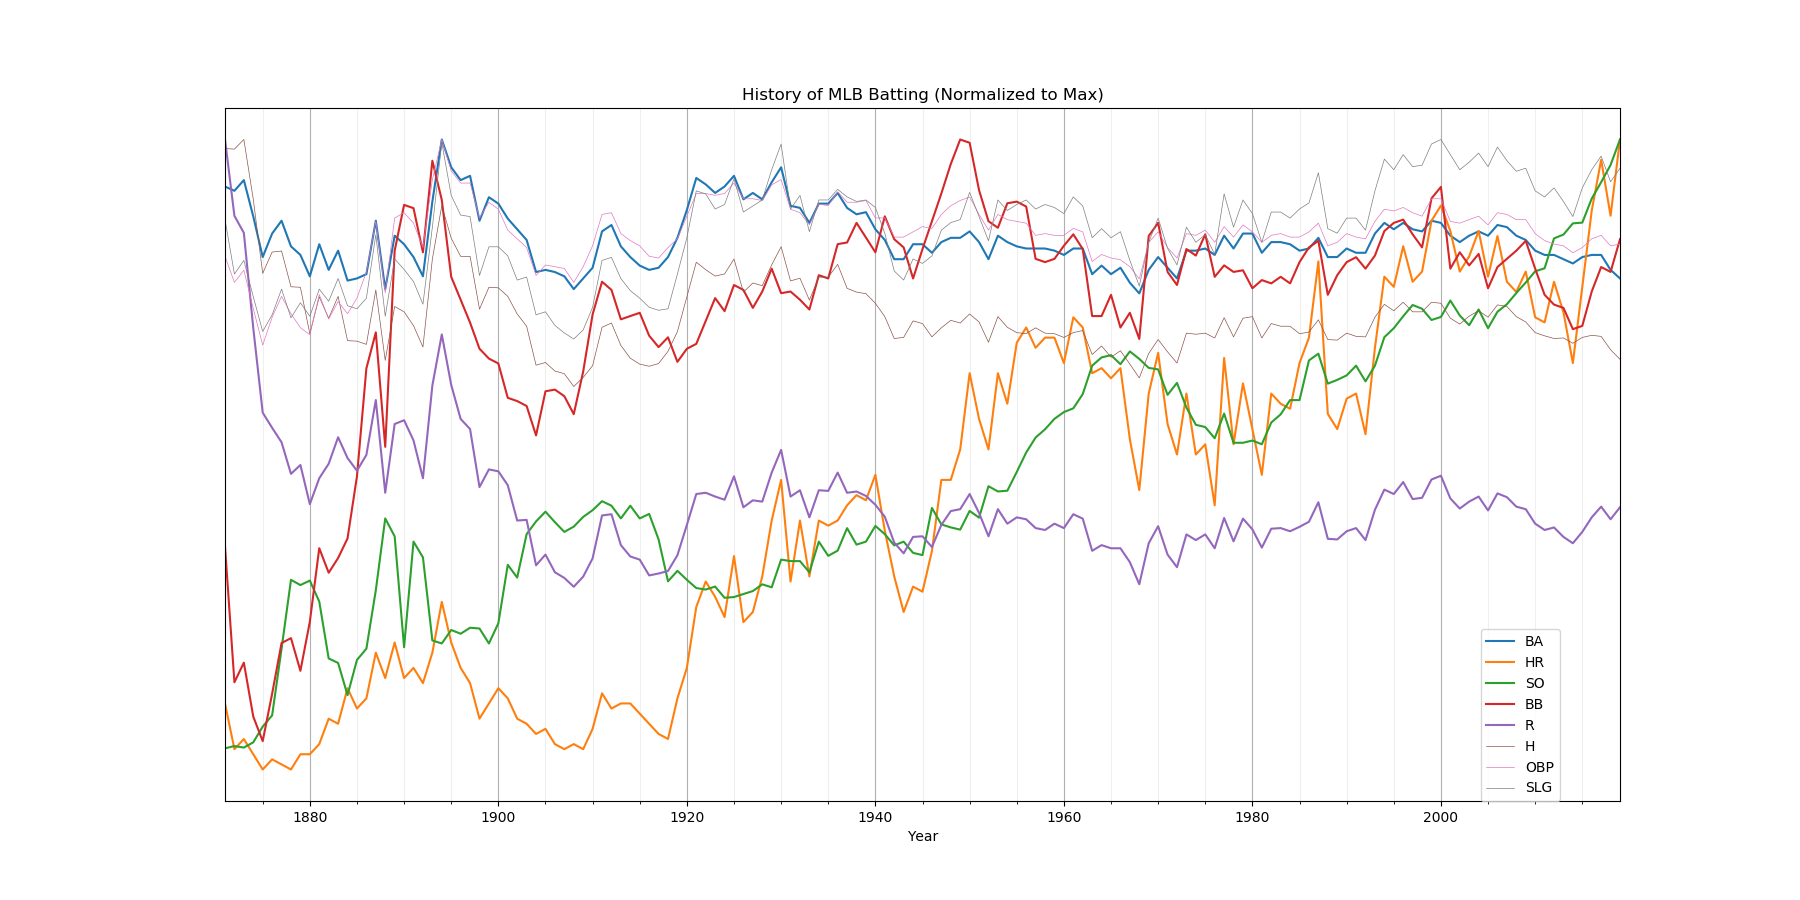
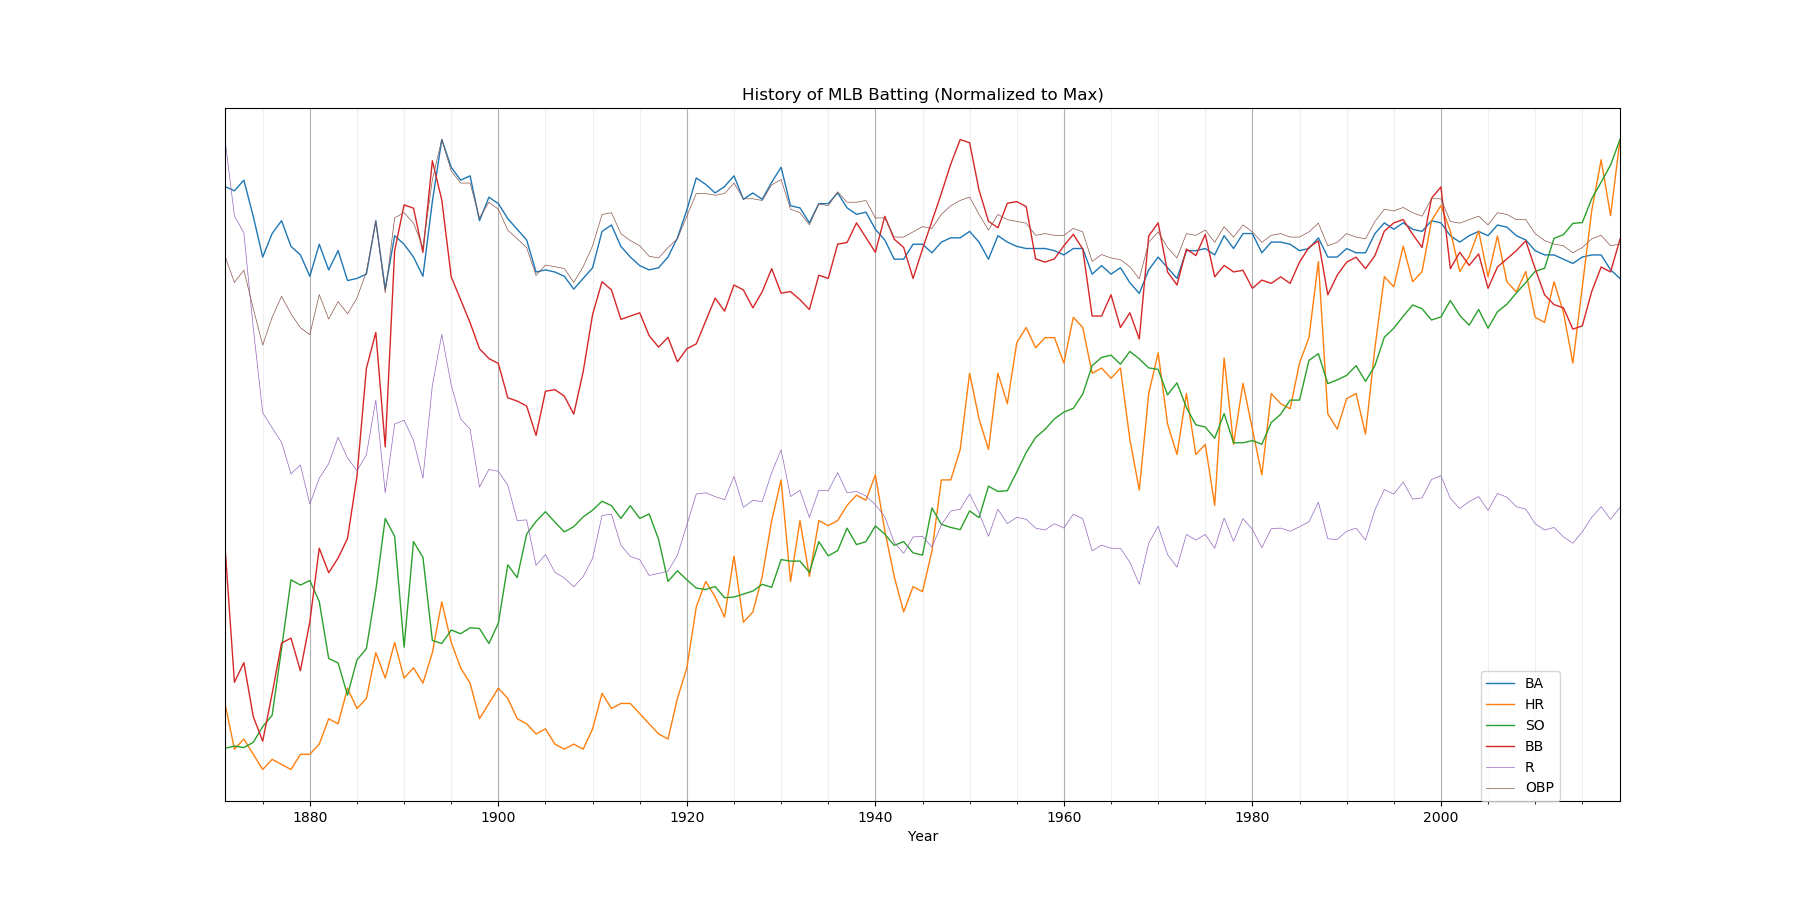
streamlined the creation of the plots into a for loop.

diff --git a/MLB_stats.py b/MLB_stats.py
@@ -4,22 +4,20 @@ import matplotlib.pyplot as plt
 from matplotlib.font_manager import FontProperties
 import mplcursors as mpl
 
+import pdb
+
 
 # Plots
 #---------------------------------------------------------
 # Plot1
 data = pd.read_csv('MLB_Team_Batting.csv')   # Read csv into dataframe
-#data.Year = pd.to_datetime(data.Year, format='%Y')  # Convert year into datetime
 
 fig1, ax1 = plt.subplots(figsize=(18,9))
-ax1.plot(data.Year,data.BA/np.max(data.BA))
-ax1.plot(data.Year,data.HR/np.max(data.HR))
-ax1.plot(data.Year,data.SO/np.max(data.SO))
-ax1.plot(data.Year,data.BB/np.max(data.BB))
-ax1.plot(data.Year,data.R/np.max(data.R))
-ax1.plot(data.Year,data.H/np.max(data.H),linewidth=0.5)
-ax1.plot(data.Year,data.OBP/np.max(data.OBP),linewidth=0.5)
-ax1.plot(data.Year,data.SLG/np.max(data.SLG),linewidth=0.5)
+cols_to_plot = [['BA',1],['HR',1],['SO',1],['BB',1],['R',0.5],['OBP',0.5]]
+
+# Plot each column in cols_to_plot with [0] being the column name and [1] being the weight
+for col in cols_to_plot:
+   ax1.plot(data['Year'],data[col[0]]/data[col[0]].max(), label=col[0], linewidth=col[1])
 
 ax1.set_title('History of MLB Batting (Normalized to Max)')    # plot title
 ax1.set_xlabel('Year')
@@ -36,14 +34,13 @@ ax1.grid(b=True, which='minor', linestyle='-', alpha=0.2)   # grid for minor tic
 
 # Plot2
 data = pd.read_csv('MLB_Team_Pitching.csv')
-#data.Year = pd.to_datetime(data.Year, format='%Y')
 
 fig2, ax2 = plt.subplots(figsize=(18,9))
-ax2.plot(data.Year,data.CG/np.max(data.CG))
-ax2.plot(data.Year,data.SHO/np.max(data.SHO))
-ax2.plot(data.Year,data.SV/np.max(data.SV))
-ax2.plot(data.Year,data.WP/np.max(data.WP))
-ax2.plot(data.Year,data.WHIP/np.max(data.WHIP))
+cols_to_plot = [['WHIP',1],['ERA',1],['SV',1],['CG',0.5],['SHO',0.5]]
+
+# Plot each column in cols_to_plot with [0] being the column name and [1] being the weight
+for col in cols_to_plot:
+   ax2.plot(data['Year'],data[col[0]]/data[col[0]].max(), label=col[0], linewidth=col[1])
 
 ax2.set_title('History of MLB Pitching (Normalized to Max)')    # plot title
 ax2.set_xlabel('Year')
@@ -61,4 +58,4 @@ mpl.cursor(hover=True).connect('add', lambda sel: sel.annotation.set_text(sel.ar
 
 fig1.savefig('mlb_history_hitting.png')
 fig2.savefig('mlb_history_pitching.png')
-#plt.show()
+plt.show()
